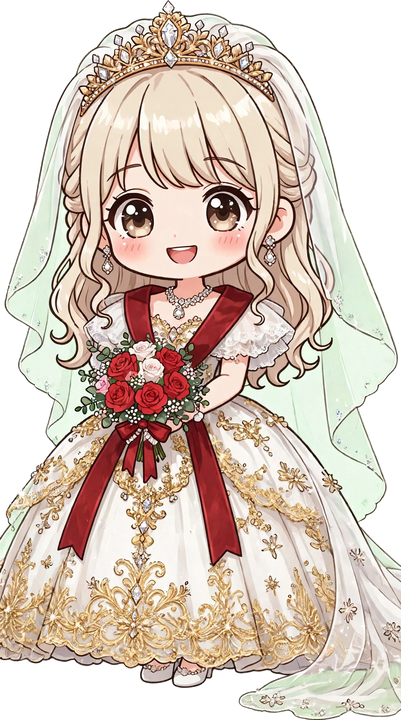
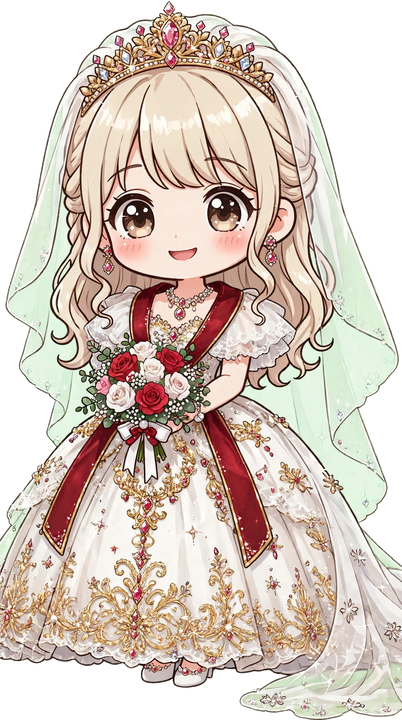
F5 vong 2: lam dep toan bo nhan vat (mat/toc/phu kien + trang phuc)
Theo brief moi cua user (11:13): mat + toc + phu kien cung lam dep,
khong chi trang phuc — giu khuon mat, mau toc, kieu toc goc.
Co dau: mat to co hon, toc nhieu soi + highlight, vuong mien da hong
day du hon; chu re: mat to co hon, theu vang day hon, hoa cai ao to
hon, dong ho co mat so. Ti le dau chu re da khop lai ban cu (het
diem lech lon nhat vong 1). Muc do lech mat: thap ca hai, van nhan
ra ngay la nhan vat cua minh. Demo so sanh da chup lai, 0 console error.

diff --git a/Games/dam-cuoi/demo-nhan-vat-moi/BRIEF.md b/Games/dam-cuoi/demo-nhan-vat-moi/BRIEF.md
@@ -74,26 +74,47 @@ GIỮ NGUYÊN (không đổi):
   vàng + hoa hồng cài áo + đồng hồ; thêu vàng trên vest đậm + dày hơn.
 - Mục tiêu: ở cỡ hiển thị nhỏ vẫn đọc được 3 mảng màu (trắng/đỏ/vàng).
 
-## 5. Kết quả thử 1 cặp (đã làm, xem demo.html)
+## 5. Kết quả thử 1 cặp — VÒNG 1 (chỉ trang phục; đã thay bằng vòng 2)
 
-- Cô dâu mới (`bride-moi.png`, 401×720, 549KB): mặt GIỮ ĐƯỢC RẤT TỐT
-  (tóc vàng, mắt nâu, nụ cười, vương miện, voan gần như y cũ). Dải đỏ qua
-  vai → eo + nơ đỏ + hồng đỏ nổi bật, thêu vàng dày hơn — ở cỡ sảnh nhỏ
-  vẫn đọc được 3 mảng màu. Lệch nhỏ: voan hơi ngả xanh lá (mới, không có
-  ở bản cũ); váy hơi xòe rộng hơn; góc dưới-trái alpha 111 (đuôi voan
-  chạm sàn, đọc như tà voan trải đất chứ không phải lỗi nền).
-- Chú rể mới (`groom-moi.png`, 352×720, 350KB): mặt GIỮ ĐƯỢC (tóc nâu,
-  mắt nâu, nụ cười, hộp nhẫn, nơ vàng, đồng hồ) nhưng ĐẦU TO HƠN rõ so
-  với bản cũ (tỉ lệ đầu/thân tăng, trông trẻ hơn — lệch phong cách nhẹ,
-  là điểm chưa khớp lớn nhất). Dải đỏ ngang eo + khăn túi đỏ đọc rất rõ.
-  Thêm vài tia lấp lánh trên tóc (mới, nhỏ).
-- Hậu xử lý: ảnh sinh ra RGB không alpha (1120×2016 / 1056×2160) → tách
-  nền flood-fill từ mép (ngưỡng gần-trắng min>=248, độ bão hòa<=12) +
-  cắt sát content + resize về cao 720. Kiểm tra: 4 góc alpha 0 (trừ góc
-  dưới-trái cô dâu 111 như trên), chân chạm mép dưới.
-- Kết luận thử: hướng nâng cấp ĐÚNG (tương phản + silhouette), cặp thử
-  dùng được sau khi sửa tỉ lệ đầu chú rể (sinh lại hoặc chấp nhận lệch
-  nhẹ). Không cần đổi mặt, không cần thêm chi tiết.
+- Cô dâu vòng 1 (401×720, 549KB): mặt giữ được rất tốt, dải đỏ + hồng đỏ
+  + thêu vàng dày hơn; lệch nhỏ: voan hơi ngả xanh lá, váy hơi xòe rộng
+  hơn, góc dưới-trái alpha 111 (đuôi voan chạm sàn).
+- Chú rể vòng 1 (352×720, 350KB): mặt giữ được nhưng ĐẦU TO HƠN rõ so
+  với bản cũ (điểm chưa khớp lớn nhất vòng 1).
+
+## 5b. Brief MỚI của user (11:13, BOSS chuyển): làm đẹp TOÀN BỘ nhân vật
+
+Mặt + tóc + phụ kiện CŨNG nằm trong phạm vi làm đẹp, không chỉ trang phục:
+mặt đẹp hơn, dễ thương hơn (mắt to có hồn, da/tóc có bóng đổ mềm), tóc
+nhiều chi tiết + highlight, phụ kiện tóc/vương miện/trang sức đầy đủ —
+NHƯNG vẫn phải nhận ra là nhân vật của mình: giữ khuôn mặt, màu tóc, kiểu
+tóc gốc, làm đẹp lên chứ không đổi thành mặt của game trong ảnh mẫu.
+
+## 5c. Kết quả thử 1 cặp — VÒNG 2 (theo brief mới, file hiện tại)
+
+- Cô dâu mới (`bride-moi.png`, 402×720, 557KB): VẪN NHẬN RA NGAY — cùng
+  khuôn mặt, tóc vàng xoăn, nụ cười. Mắt to hơn có hồn (thêm highlight),
+  da/tóc có bóng đổ mềm, tóc nhiều sợi + highlight hơn; vương miện giàu
+  hơn (đá hồng — mới, trước đây đá trắng/trong); khuyên tai + dây chuyền
+  đá hồng đầy đủ. Dải đỏ + hồng đỏ + thêu vàng giữ như vòng 1. Lệch nhỏ:
+  voan vẫn hơi ngả xanh lá; đá vương miện đổi sang hồng là thay đổi nhỏ
+  trong câu chuyện màu.
+- Chú rể mới (`groom-moi.png`, 352×720, 373KB): VẪN NHẬN RA NGAY — cùng
+  khuôn mặt, tóc nâu rẽ ngôi, nụ cười. Mắt to hơn có hồn, tóc nhiều sợi +
+  highlight hơn; thêu vàng dày hơn nhiều (ve áo, vai, cổ tay), hoa hồng
+  cài áo to hơn có lá, đồng hồ nay có mặt số. Dải đỏ ngang eo có thêm
+  hoa văn vàng + chốt hoa. TỈ LỆ ĐẦU ĐÃ KHỚP LẠI với bản cũ (điểm lệch
+  lớn nhất vòng 1 đã hết). Lệch nhỏ: vài tia lấp lánh trên tóc (mới);
+  hoa cài áo hơi to, che một phần ngực.
+- Mức độ lệch mặt (đánh giá thẳng): THẤP ở cả hai — mắt to hơn + chi
+  tiết hơn nhưng khuôn mặt, màu tóc, kiểu tóc, nụ cười giữ nguyên, không
+  ai nhìn nhầm thành nhân vật khác. Không đổi thành mặt game mẫu.
+- Hậu xử lý (cả 2 vòng): ảnh sinh ra RGB không alpha (1120×2016 /
+  1056×2160) → tách nền flood-fill từ mép (ngưỡng gần-trắng min>=248,
+  độ bão hòa<=12) + cắt sát content + resize về cao 720. Kiểm tra vòng 2:
+  4 góc alpha 0 cả hai file, chân chạm mép dưới.
+- Kết luận thử: hướng làm đẹp toàn bộ ĐÚNG brief mới, cặp thử dùng được.
+  Vòng 2 tốt hơn vòng 1 ở cả mặt lẫn tỉ lệ đầu chú rể.
 
 ## 6. Rủi ro đã biết trước khi thử
 
